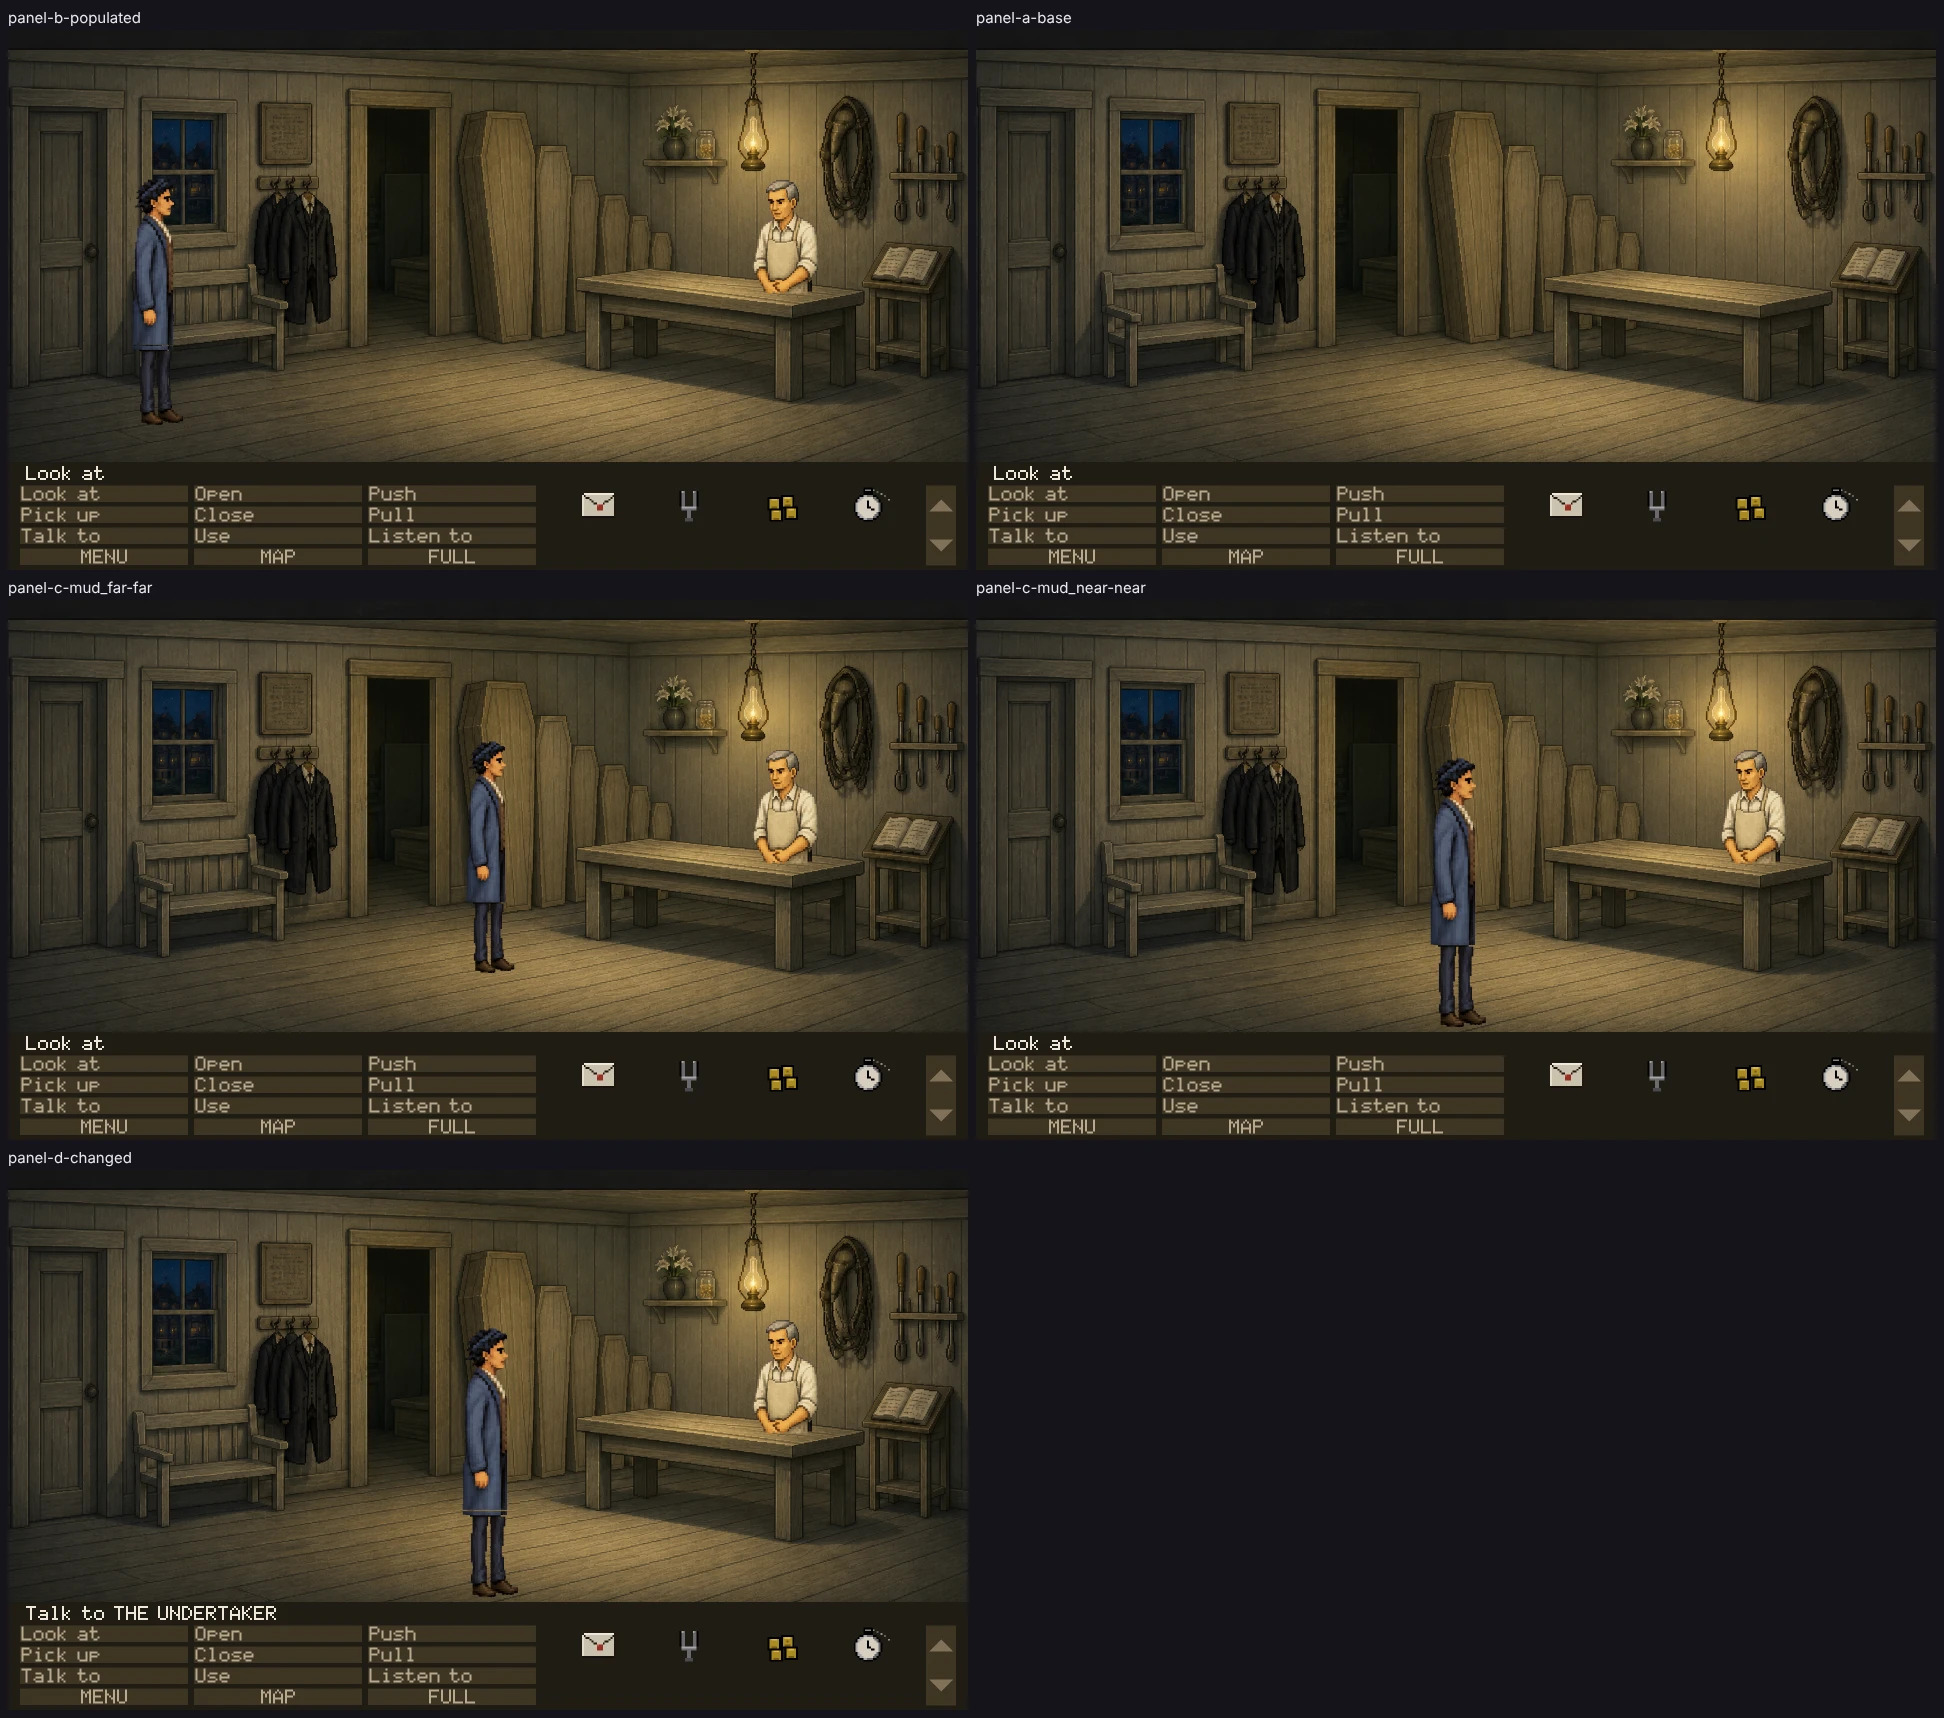
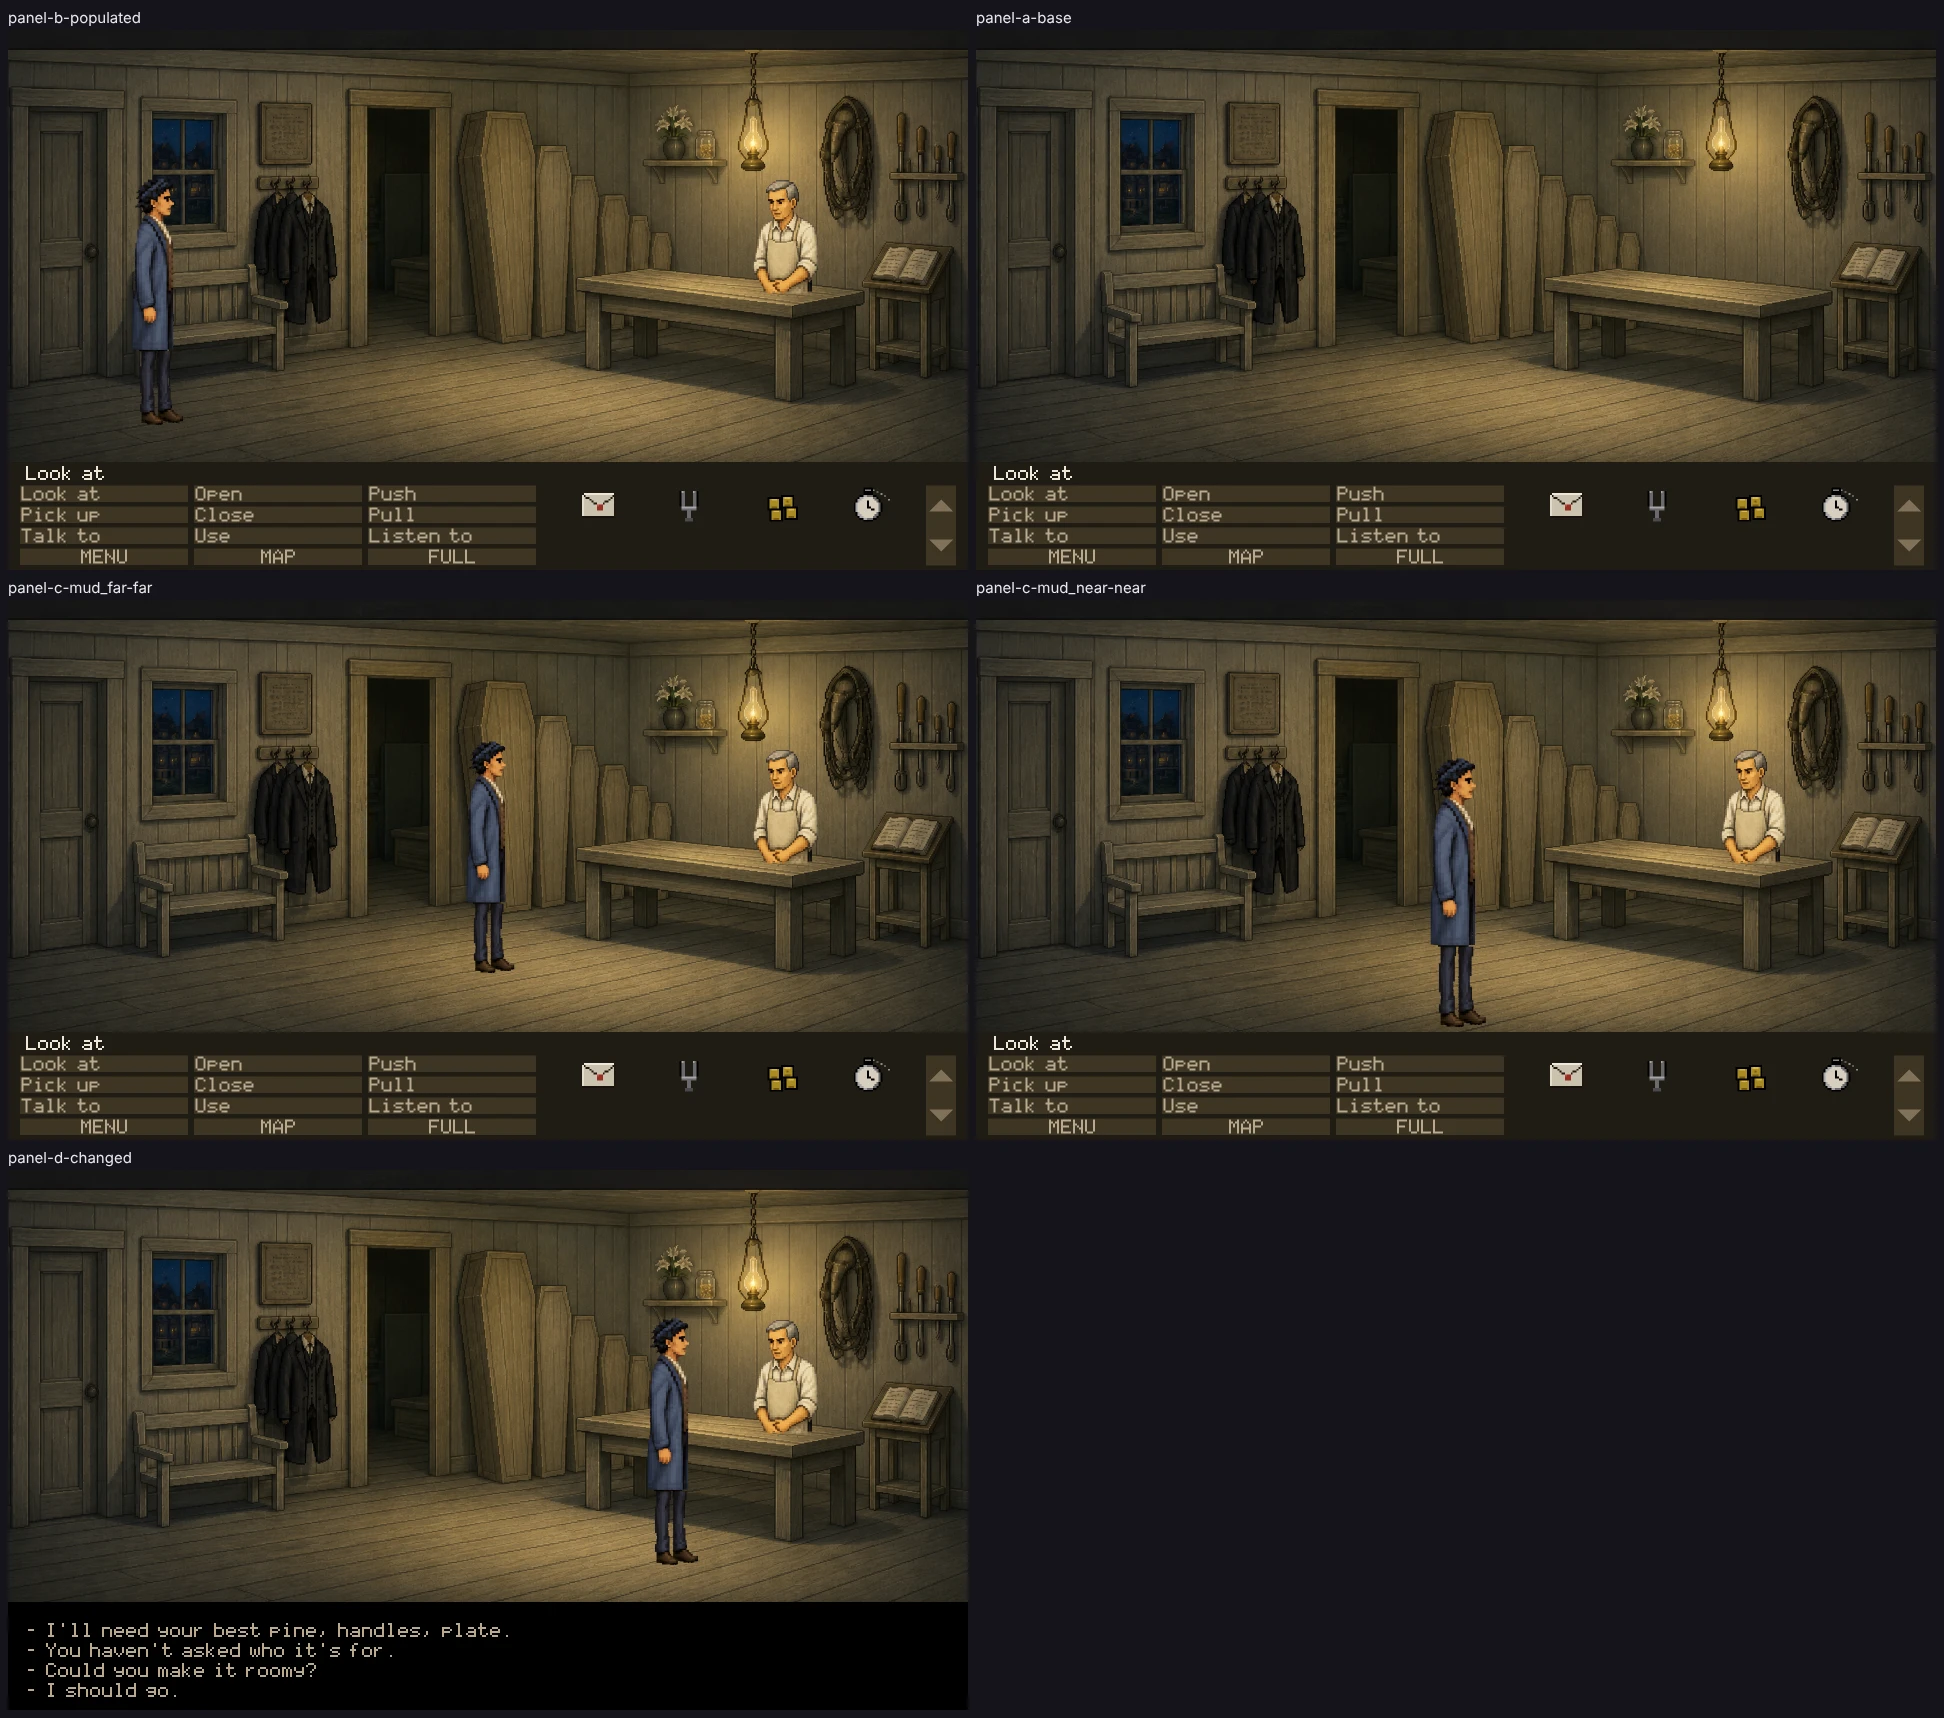
Room 13: four-panel proof on a clean tree
Claude-Session: https://claude.ai/code/session_01FXbCupzwLJAEr7fqqWYP8A

Changed region(s): [[0.0, 0.7712, 0.5247, 1.0]]

diff --git a/renders/proofs/undertaker/index.html b/renders/proofs/undertaker/index.html
@@ -5,7 +5,7 @@
  h1{font-size:17px;margin:0 0 4px}
  p.lede{color:#9a9aae;margin:0 0 8px;max-width:64em}
  .verdict{font:13px ui-monospace,monospace;padding:8px 10px;border-radius:5px;margin:12px 0;
-   background:#3a1620;border:1px solid #7a2c3c}
+   background:#12331e;border:1px solid #2c6b40}
  figure{margin:0 0 22px}
  img{width:100%;display:block;border-radius:5px;border:1px solid #2c2c38}
  figcaption{padding:7px 2px;font-size:13px}
@@ -17,7 +17,7 @@
 </style>
 <h1>undertaker — four-panel live-runtime proof</h1>
 <p class="lede">Every frame below is the full play area as the renderer drew it, in the running
-game, at <code>288d48eb</code> on <code>ccr-347d40c6-71r9f9</code>.
+game, at <code>03dbea83</code> on <code>ccr-347d40c6-71r9f9</code>.
 No crop, isolated sprite or source image appears here: those are for diagnosing what a full
 frame has already shown.</p>
 <p class="lede"><b>These panels establish technical admissibility only.</b> Nothing here says the
@@ -29,8 +29,7 @@ art is good, in style, funny or approved. Only Tyler sets <code>visual_accepted<
     downscaled, never cropped. The full-resolution captures are reproducible test artifacts
     and are not in git; their hashes are below.</span></figcaption>
 </figure>
-<div class="verdict">FAIL — 1 failure(s):
-  panel D: reaching the changed state failed -- route: waitFor {"do":"waitFor","dialogue":true,"upTo":60,"why":"UND_C1's list"} timed out after 60s (UND_C1's list). It saw: room undertaker, control null, beat -, 0 option(s), handedOver true</div>
+<div class="verdict">PASS — technically admissible</div>
 
   <figure>
     <img src="raw-captures-ignored/panel-b-populated.png" alt="" onerror="this.replaceWith(Object.assign(
@@ -62,7 +61,7 @@ art is good, in style, funny or approved. Only Tyler sets <code>visual_accepted<
       <span>room undertaker &middot; camera 0 &middot;
         flags T_OPENING_SAID T_COACH_DEPARTED T_UNDERTAKER_NAMED T_HOB_CROSSING T_THAD_LEAVING T_HOB_SPOKEN T_HOB_GONE T_OPENING_DONE T_SEEN_MAIN_STREET T_CASE_DOWN T_CASE_TAKEN T_NEED_TO_DIE &middot;
         inventory letter tuning_fork four_dollars watch</span>
-      <span>thad @965,854 537px sprite</span>
+      <span>thad @1330,790 493px sprite</span>
     </figcaption>
   </figure>
   <figure>
@@ -70,7 +69,7 @@ art is good, in style, funny or approved. Only Tyler sets <code>visual_accepted<
     <figcaption><b>PANEL C &mdash; mud_far far, authored y746</b>
       <span>expected 463px &middot; runtime 463px &middot;
         silhouette 463px, bottom y745</span>
-      <span>art/actors/thad-idlebreak-right/idle-break-08.png</span>
+      <span>art/actors/thad-idle-right/idle-04.png</span>
     </figcaption>
   </figure>
   <figure>
@@ -78,6 +77,6 @@ art is good, in style, funny or approved. Only Tyler sets <code>visual_accepted<
     <figcaption><b>PANEL C &mdash; mud_near near, authored y854</b>
       <span>expected 537px &middot; runtime 537px &middot;
         silhouette 538px, bottom y854</span>
-      <span>art/actors/thad-idle-right/idle-00.png</span>
+      <span>art/actors/thad-idle-right/idle-04.png</span>
     </figcaption>
   </figure>
